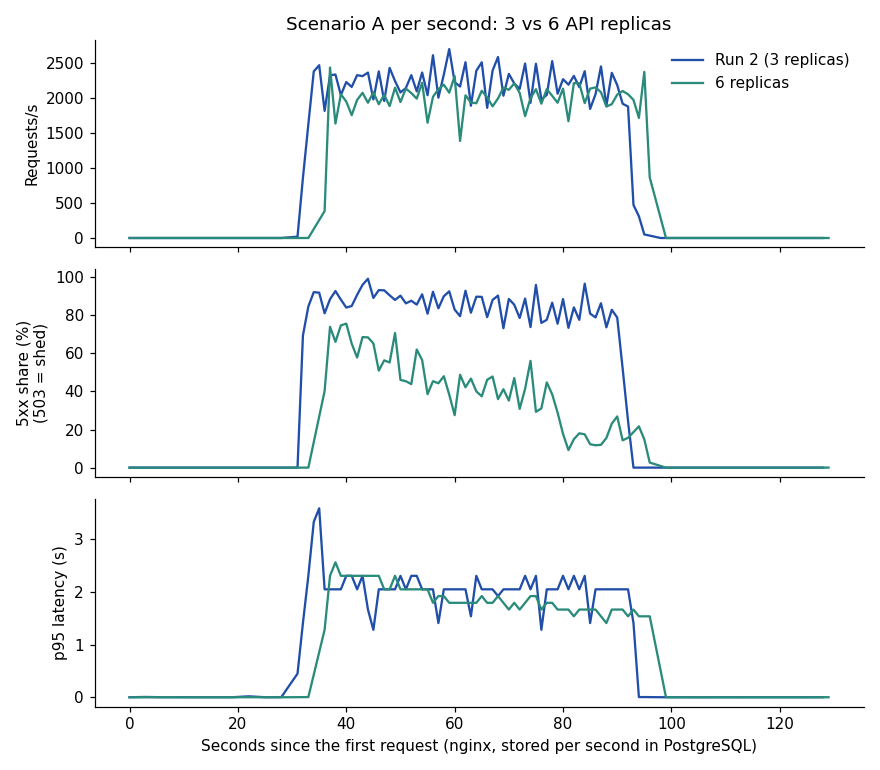
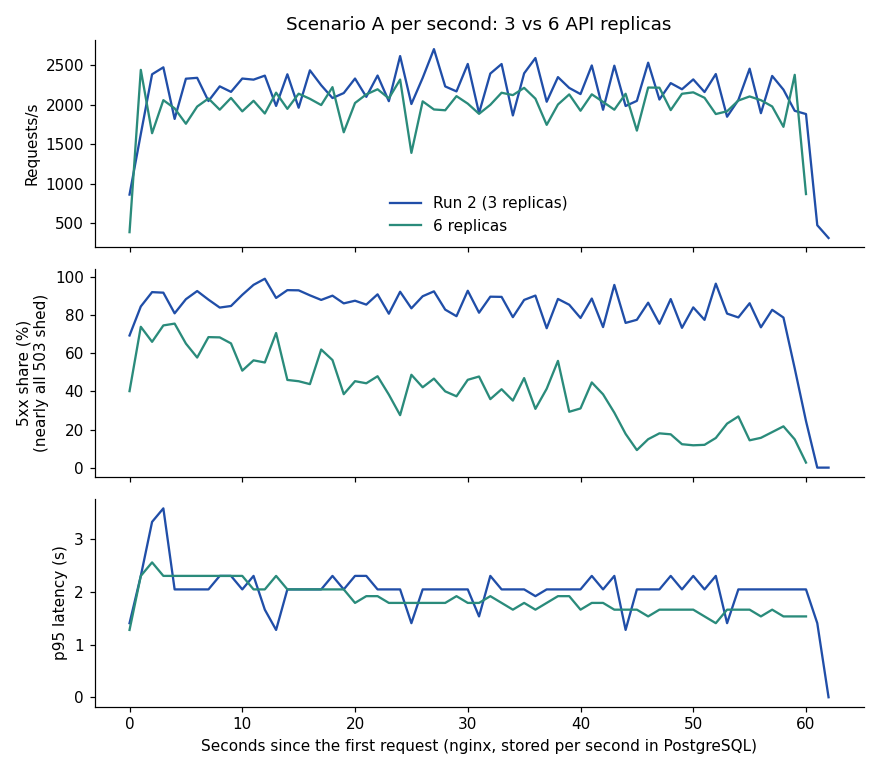
fix(loadtest): chart categories add up to k6 totals; per-second window matches captions
The outcome bars use k6's own unexpected-error count for every run (no hard-coded run-1
value), so answered = total - shed - business 409 - unexpected; the per-second chart and
its caption use the same under-load window (seconds above 100 requests). Captions state
what the red segment contains and that bars cover the whole run.

Claude-Session: https://claude.ai/code/session_01PGxEBZ8pZ2A6ajJwtkAYQn

diff --git a/loadtest/charts.py b/loadtest/charts.py
@@ -37,18 +37,6 @@ def k6(run: Path) -> dict:
     return json.loads((run / "a" / "k6-summary.json").read_text())["metrics"]
 
 
-def nginx_statuses(run: Path) -> dict[int, int]:
-    """Status totals from the nginx summary (runs 2 and 3) or the run log (run 1)."""
-    summary = run / "a" / "nginx-summary.txt"
-    totals: dict[int, int] = {}
-    if summary.exists():
-        for line in summary.read_text().splitlines():
-            match = re.match(r"\s*(\d+)\s+\S+\s+\S+\s+(\d{3})$", line)
-            if match:
-                totals[int(match[2])] = totals.get(int(match[2]), 0) + int(match[1])
-    return totals
-
-
 def seats(run: Path) -> dict[str, int]:
     text = (run / "a" / "final-state.txt").read_text()
     found = dict(re.findall(r"^\s*(available|held|sold)\s*\|\s*(\d+)", text, re.M))
@@ -58,16 +46,14 @@ def seats(run: Path) -> dict[str, int]:
 def chart_outcomes() -> None:
     """Scenario A: what happened to the requests, per run."""
     labels, ok, conflict, busy, error = [], [], [], [], []
-    run1_502 = 104_136  # run 1 nginx 502s (LOADTEST §2; raw access log not committed)
     for name, run in RUNS.items():
         metrics = k6(run)
         total = metrics["http_reqs"]["count"]
-        statuses = nginx_statuses(run)
         busy_count = metrics.get("server_busy", {}).get("count", 0)
         conflicts = metrics.get("business_conflicts", {}).get("count", 0) - busy_count
-        errors = statuses.get(502, 0) + statuses.get(500, 0) + statuses.get(499, 0)
-        if name.startswith("Run 1"):
-            errors = run1_502
+        # k6 counts every response outside the expected business outcomes (502s, 500s,
+        # client timeouts) as unexpected; use it for all runs so the bars add up to k6's total.
+        errors = metrics.get("unexpected_errors", {}).get("passes", 0)
         labels.append(name)
         busy.append(busy_count)
         conflict.append(max(conflicts, 0))
@@ -79,12 +65,12 @@ def chart_outcomes() -> None:
         (ok, "ok", "Answered (2xx)"),
         (conflict, "conflict", "Business 409"),
         (busy, "busy", "Shed: 503 server-busy"),
-        (error, "error", "Gateway/client errors (502/500/499)"),
+        (error, "error", "Unexpected: 502/500/timeouts (k6)"),
     ):
         ax.barh(labels, values, left=left, color=COLORS[key], label=text)
         left = [a + b for a, b in zip(left, values, strict=True)]
     ax.invert_yaxis()
-    ax.set_xlabel("Requests in 60 s (k6)")
+    ax.set_xlabel("Requests per run (k6 total, 60 s of load plus ramp-down)")
     ax.set_title("Scenario A: request outcomes (3,000 VUs, 10,000 seats)")
     ax.xaxis.set_major_formatter(matplotlib.ticker.FuncFormatter(lambda v, _: f"{v:,.0f}"))
     ax.legend(loc="upper center", bbox_to_anchor=(0.5, -0.22), ncol=2, frameon=False)
@@ -122,7 +108,12 @@ def per_second(run: Path) -> list[dict]:
     rows = []
     with (run / "a" / "metrics_1s.csv").open() as source:
         for row in csv.DictReader(source):
-            if row["source"] == "edge" and row["scope"] == "all" and int(row["req_total"] or 0):
+            # Seconds under load only (health checks alone stay far below 100 requests/s).
+            if (
+                row["source"] == "edge"
+                and row["scope"] == "all"
+                and int(row["req_total"] or 0) > 100
+            ):
                 rows.append(row)
     return rows
 
@@ -143,7 +134,7 @@ def chart_timeline() -> None:
         axes[1].plot(xs, err, color=color, label=name)
         axes[2].plot(xs, p95, color=color, label=name)
     axes[0].set_ylabel("Requests/s")
-    axes[1].set_ylabel("5xx share (%)\n(503 = shed)")
+    axes[1].set_ylabel("5xx share (%)\n(nearly all 503 shed)")
     axes[2].set_ylabel("p95 latency (s)")
     axes[2].set_xlabel("Seconds since the first request (nginx, stored per second in PostgreSQL)")
     axes[0].set_title("Scenario A per second: 3 vs 6 API replicas")

diff --git a/LOADTEST.md b/LOADTEST.md
@@ -4,12 +4,12 @@
 
 **一圖看懂**（圖由 `loadtest/charts.py` 直接讀取 `docs/evidence/` 的原始輸出產生）
 
-| 請求結果：第 1 輪的 502 消失，6 副本時被削峰的 503 大幅減少 | 座位結果：每一輪都沒有任何座位被賣兩次 |
+| 請求結果：第 1 輪的大量非預期錯誤（主要是 502）消失，6 副本時被削峰的 503 大幅減少 | 座位結果：每一輪都沒有任何座位被賣兩次 |
 | --- | --- |
 | ![情境 A 請求結果](docs/evidence/charts/a-request-outcomes.png) | ![情境 A 座位結果](docs/evidence/charts/a-seat-inventory.png) |
 
 - **灰色（503 server-busy）是刻意的過載保護**：資料庫連線池滿時最多等 1 秒，就快速請客戶端稍後重試，系統因此不會崩潰；不是程式錯誤。
-- **紅色（502）只在第 1 輪出現**：nginx 在過載時把 3 個 API 副本全部判定故障；修正後第 2 輪與 6 副本皆為 0。
+- **紅色（k6 判定的非預期錯誤）**：第 1 輪 106,186 筆，主要是 nginx 在過載時把 3 個 API 副本全部判定故障造成的 502；修正後第 2 輪只剩 6 筆、6 副本 51 筆，都是付款請求的客戶端逾時，502 皆為 0。長條涵蓋整輪約 64 秒（60 秒負載加收尾）。
 - **座位圖**：藍色為已付款、棕色為鎖位中；三輪都沒有超賣，排空後一致性 SQL 在第 2 輪與 6 副本皆為 0 列。
 
 
@@ -63,7 +63,7 @@
 
 ![情境 A 每秒指標：3 與 6 個 API 副本](docs/evidence/charts/a-per-second.png)
 
-上圖由監控系統每秒寫入 PostgreSQL 的 nginx 指標畫成：兩種配置的每秒請求數相近；被削峰的 5xx 比例（每秒中位數）從 3 個副本的約 86% 降到 6 個副本的約 41%（範圍 3–76%），每秒 p95 延遲中位數分別約 2.0 秒與 1.8 秒（含最多 1 秒的連線池等待）。
+上圖由監控系統每秒寫入 PostgreSQL 的 nginx 指標畫成，只取負載期間（每秒超過 100 個請求的秒數）：兩種配置的每秒請求數相近；被削峰的 5xx 比例（每秒中位數）從 3 個副本的約 86% 降到 6 個副本的約 41%（範圍 3–76%），每秒 p95 延遲中位數分別約 2.0 秒與 1.8 秒（每次取得連線池最多等 1 秒）。
 
 
 **參數與流量（第 2 輪腳本）**　單一開賣活動 10,000 席、3,000 個 `constant-vus`，持續 60 秒。準備腳本以 `POST /api/v1/auth/login` 登入主辦人，透過 API 建立活動、匯入座位並發布，並直接在 PostgreSQL 建立每位買家的獨立 session。初始 idle 與 absolute deadline 均為 12 小時（`loadtest/prepare_a.py:135`）。正常登入的預設分別為 30 分鐘與 12 小時。每次購買抽 1–4 張，約 70% 指定席、30% 區域配位。成功後約 80% 模擬付款並輪詢訂單、10% 取消、10% 保留至期限，另抽約 2% 用原請求內容及 Idempotency-Key 驗證重放。重放遇 502／504 或 `503 server-busy` 時依 `Retry-After`（預設 1 秒）重送，合計最多 10 次嘗試。每筆發起的重放均須收到回應並驗證為原訂單。觸及個人配額後，確認已有 4 張的 VU 切到查訂單。請求 timeout 5 秒，指定的可重試 409 最多重送兩次。見 `loadtest/prepare_a.py:72`、`loadtest/prepare_a.py:110`、`backend/src/ticketing/core/settings.py:46`、`loadtest/scenario_a.js`。
